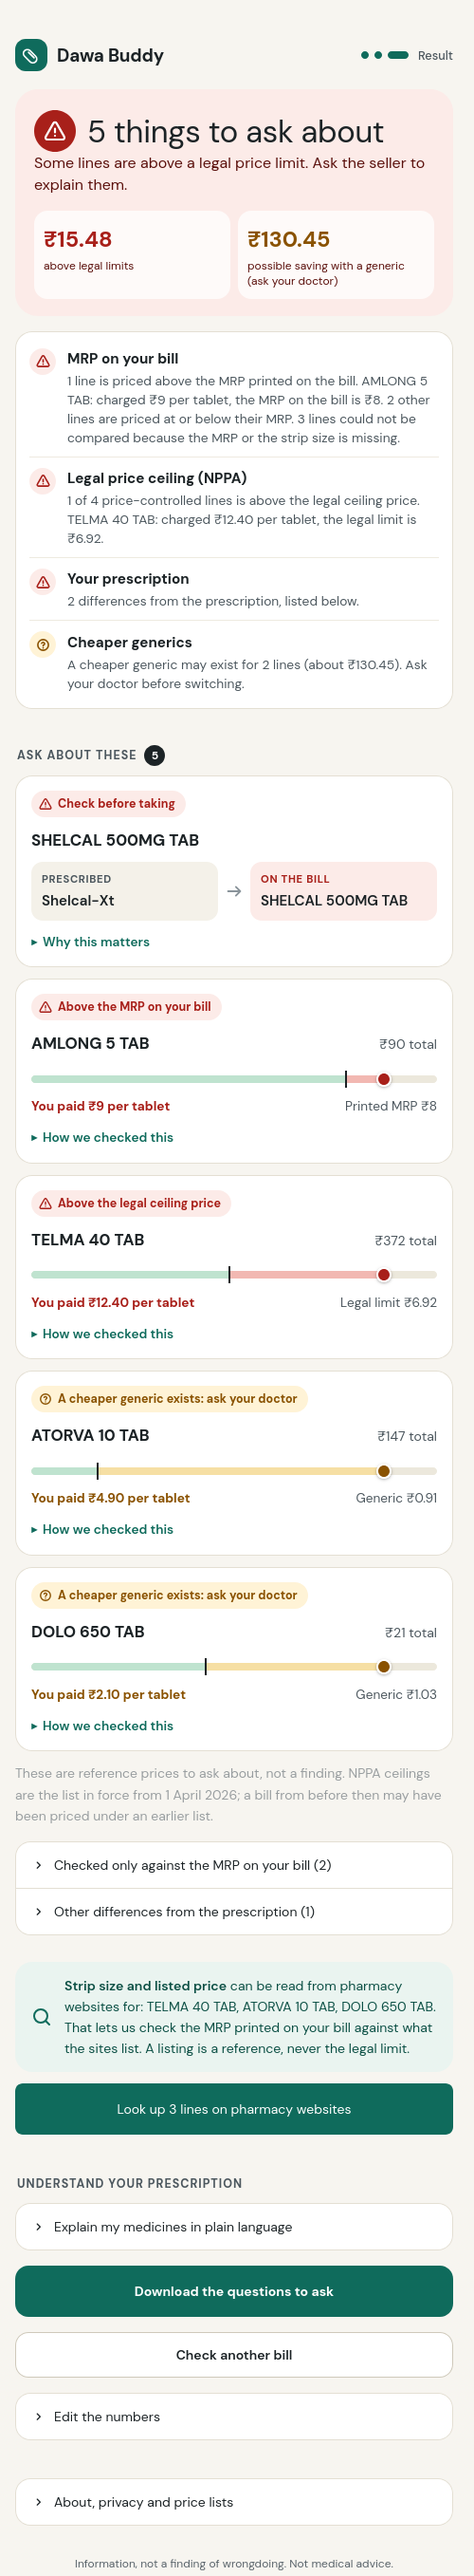
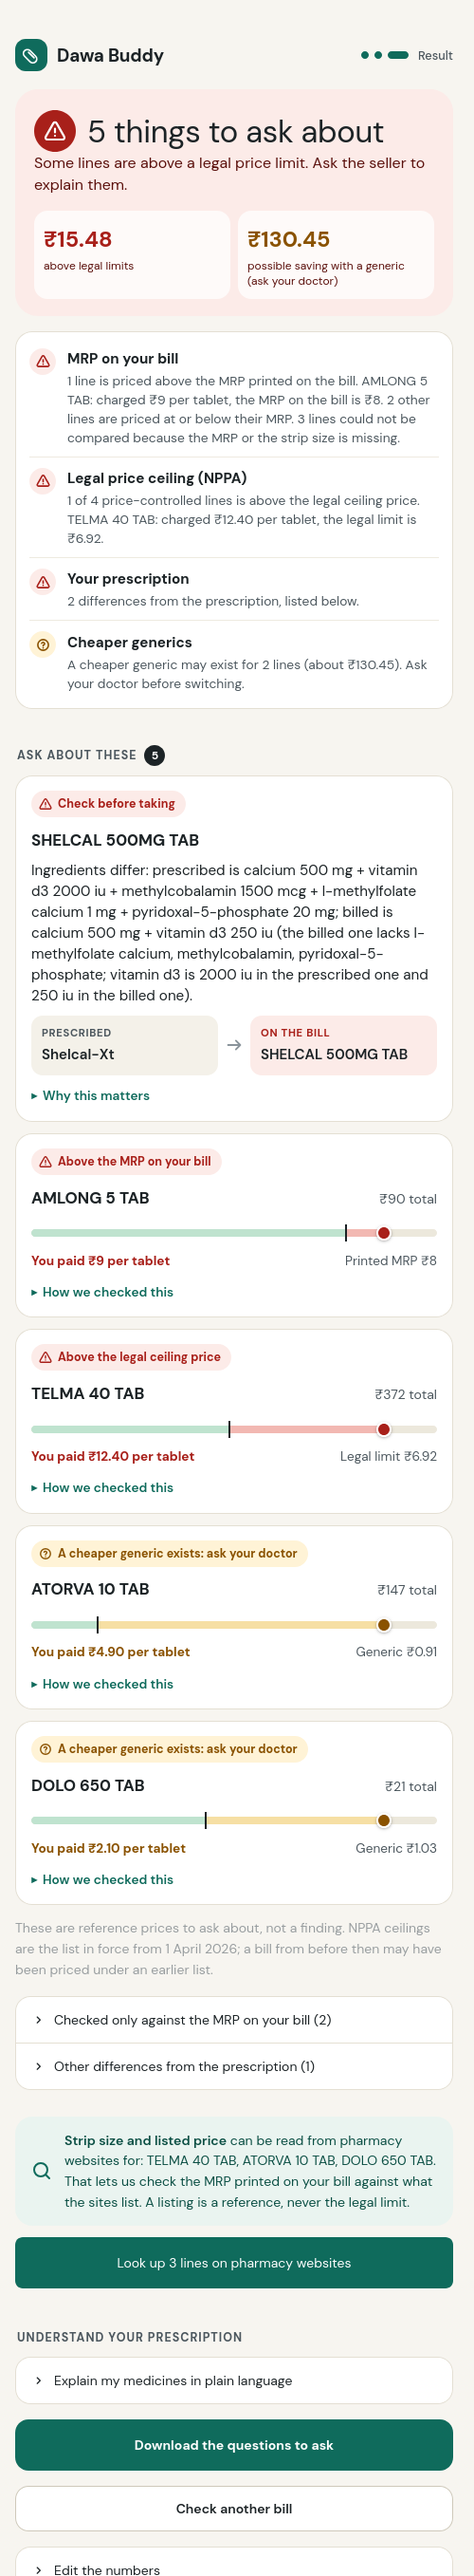
Wrong-variant card states how Shelcal-XT and Shelcal 500 differ (verified compositions, dose pattern no longer read as a strength), visible without a tap

diff --git a/tests/test_bill.py b/tests/test_bill.py
@@ -208,7 +208,9 @@ def test_variant_warning_says_what_actually_differs():
     from dawa_buddy.reconcile import compare_variants
     assert "adds amlodipine" in compare_variants("Concor 5", "CONCOR AM 5 TAB")
     assert "Same ingredients, different strength" in compare_variants("Telma 20", "TELMA 40 TAB")
-    assert "could not look up" in compare_variants("Shelcal-XT", "SHELCAL 500MG TAB")          # not in the brand table: say so, don't guess
+    assert "could not look up" in compare_variants("Zzyzx-XT", "ZZYZX 500MG TAB")              # not in the brand table: say so, don't guess
+    shelcal = compare_variants("Shelcal-XT", "SHELCAL 500MG TAB")                              # two pharmacy pages agree on each (data/brand_overrides.json)
+    assert "Ingredients differ" in shelcal and "billed one lacks methylcobalamin" in shelcal.replace("l-methylfolate calcium, ", "") and "vitamin d3 is 2000 iu in the prescribed one and 250 iu in the billed one" in shelcal
 
 
 def test_variant_flag_carries_the_difference():
@@ -453,3 +455,13 @@ def test_the_questions_ask_the_patient_to_compare_the_bill_mrp_with_the_strip():
     text = report.questions([f])
     assert "## Check the MRP on the strip" in text and "the seller's own figure" in text and "PAN 40MG TAB" in text and "MRP of 11.00" in text
     assert "## Check the MRP on the strip" not in report.questions([b.audit_line(b.BillLine("x", "PAN 40MG TAB", 6, 11.0, 66.0, "tab", None, None))])      # no MRP printed, nothing to compare
+
+
+def test_the_shelcal_prescription_is_compared_with_the_bill_even_with_a_dose_pattern_in_the_line():
+    from dawa_buddy.reader import read_offline
+    from dawa_buddy.reconcile import reconcile
+    lines, _ = b.parse_bill_ex("SHELCAL 500MG TAB | 30 | 9.81 | 294.30")
+    f = [x for x in reconcile(read_offline("TAB SHELCAL-XT 0---1---0 TO CONTINUE"), lines) if x.kind == "different_variant"][0]
+    assert "Shelcal-Xt 0" not in f.note and "cannot say how they differ" not in f.note        # the dose pattern's 0 is not a strength
+    assert "prescribed is calcium 500 mg + vitamin d3 2000 iu" in f.note and "billed is calcium 500 mg + vitamin d3 250 iu" in f.note
+    assert b.audit_line(lines[0]).tier == b.TIER_SUPPLEMENT                                   # knowing its composition does not turn a supplement into a price-listed medicine

diff --git a/dawa_buddy/reconcile.py b/dawa_buddy/reconcile.py
@@ -132,6 +132,10 @@ def compare_variants(prescribed: str, billed: str) -> str:
             parts.append(f"the billed one adds {', '.join(sorted(sb - sa))}")
         if sa - sb:
             parts.append(f"the billed one lacks {', '.join(sorted(sa - sb))}")
+        sta, stb = dict(zip(a.salts.split("+"), a.strengths)), dict(zip(b.salts.split("+"), b.strengths))
+        for salt in sorted(sa & sb):         # an ingredient both have, in a different amount ("vitamin d3 2000 iu against 250 iu")
+            if sta[salt] != stb[salt]:
+                parts.append(f"{salt} is {sta[salt][0]:g} {sta[salt][1]} in the prescribed one and {stb[salt][0]:g} {stb[salt][1]} in the billed one")
         return f"Ingredients differ: prescribed is {_show(a)}; billed is {_show(b)} ({'; '.join(parts)})."
     if sorted(a.strengths) != sorted(b.strengths):
         return f"Same ingredients, different strength: prescribed is {_show(a)}; billed is {_show(b)}."
@@ -146,8 +150,9 @@ def _rx_desc(m: Medication | None, name: str) -> str:
         return name
     if m.strength:
         return f"{name} {m.strength}"
-    hit = re.search(re.escape(name.split()[0]) + r"[\w\-. ]*?\s(\d+(?:\.\d+)?)\b", m.raw or "", re.I)
-    return f"{name} {hit[1]}" if hit and name.split()[-1].lower() in (m.raw or "").lower() else name
+    raw = re.sub(r"\b[01]\s*[-\u2013\u2014]+\s*[01]\s*[-\u2013\u2014]+\s*[01]\b", " ", m.raw or "")        # the dose pattern 0---1---0 is not a strength
+    hit = re.search(re.escape(name.split()[0]) + r"[\w\-. ]*?\s(\d+(?:\.\d+)?)\b", raw, re.I)
+    return f"{name} {hit[1]}" if hit and name.split()[-1].lower() in raw.lower() else name
 
 
 def _pair_variants(flags: list[Flag], rx: Prescription, lines: list[BillLine]) -> list[Flag]:

diff --git a/tests/test_app.py b/tests/test_app.py
@@ -888,3 +888,11 @@ def test_the_strip_size_is_asked_for_only_when_a_conversion_needs_it_and_in_the_
     at.number_input(key="r0_0_fp0").set_value(15)
     [b for b in at.button if b.label == "Save changes"][0].click().run()
     assert "Needed" not in html_blocks(at) and "₹10.90 per tablet" in _captions(at)                   # filled in, and now the conversion is shown
+
+
+def test_the_wrong_variant_card_shows_how_the_two_products_differ_without_a_tap(monkeypatch):
+    at = _bill_app(monkeypatch, [("SHELCAL 500MG TAB", 30, 9.81, 15, 163.45)], rx="TAB SHELCAL-XT 0---1---0 TO CONTINUE")
+    page = html_blocks(at)
+    body = page.split('class="db-body">')[1].split("</div>")[0]                       # the visible sentence of the card, not the folded explanation
+    assert "Ingredients differ" in body and "vitamin d3 is 2000 iu in the prescribed one and 250 iu in the billed one" in body.replace("&#x27;", "'")
+    assert "Check before taking" in page and "Shelcal-Xt 0" not in page

diff --git a/bill_app.py b/bill_app.py
@@ -608,7 +608,8 @@ def results(df, total):
         st.markdown(ui.section_label("Ask about these", n_cards), unsafe_allow_html=True)
     for x in wrong:        # a possibly wrong medicine matters more than any price, so it comes first
         prescribed, billed = x.subject.split(" -> ")
-        st.markdown(ui.card("red", billed, "Check before taking", visual=ui.diff(prescribed, billed), why=x.note), unsafe_allow_html=True)
+        shown = re.search(r"different product\.\s*((?:Ingredients differ|Same ingredients).*?)\s*Ask the pharmacist", x.note)         # how they differ is the point of this card: not behind a tap
+        st.markdown(ui.card("red", billed, "Check before taking", body=shown.group(1) if shown else "", visual=ui.diff(prescribed, billed), why=x.note), unsafe_allow_html=True)
     for f in attention:
         st.markdown(finding_html(f), unsafe_allow_html=True)
     peers = peer_cards(peer_found)

diff --git a/README.md b/README.md
@@ -5,7 +5,7 @@
 **Photograph a pharmacy or hospital bill. Dawa Buddy checks it line by line against India's legal price lists and the doctor's prescription, then tells you exactly what to ask, in English, Hindi or Kannada.**
 
 ![licence: MIT](https://img.shields.io/badge/licence-MIT-green)
-![tests: 283 passing](https://img.shields.io/badge/tests-283%20passing-brightgreen)
+![tests: 285 passing](https://img.shields.io/badge/tests-285%20passing-brightgreen)
 ![Nebius Token Factory](https://img.shields.io/badge/runs%20on-Nebius%20Token%20Factory-1f6feb)
 ![NVIDIA Nemotron](https://img.shields.io/badge/models-NVIDIA%20Nemotron-76b900)
 ![Tavily](https://img.shields.io/badge/web%20evidence-Tavily-7b61ff)
@@ -30,7 +30,7 @@
 ### What a judge should know in one minute
 | Criterion | Short answer | Where to look |
 |---|---|---|
-| **Technological implementation** | Nemotron **Super VL** reads photos, **Lightning** reads prescriptions, **Ultra / Super** write Hindi, all through one Token Factory endpoint. A deterministic rules engine decides every price verdict, so the model can never invent an accusation. 283 tests; 4 evaluation suites. | [§7](#7-architecture), [§8](#8-how-we-use-nebius-nvidia-nemotron-and-tavily), [§10](#10-validation-and-evaluation) |
+| **Technological implementation** | Nemotron **Super VL** reads photos, **Lightning** reads prescriptions, **Ultra / Super** write Hindi, all through one Token Factory endpoint. A deterministic rules engine decides every price verdict, so the model can never invent an accusation. 285 tests; 4 evaluation suites. | [§7](#7-architecture), [§8](#8-how-we-use-nebius-nvidia-nemotron-and-tavily), [§10](#10-validation-and-evaluation) |
 | **Design** | One question per screen, verdict first, a "What we checked" list so a clean bill reads as protection, phone-first, status always colour + icon + words, Hindi and Kannada typography. | [§5](#5-the-product-tour) |
 | **Potential impact** | The Indian government's own court affidavit says patients have "very low bargaining position" and "very limited" knowledge of prices. This tool puts the comparison in the patient's hands at the moment of paying. | [§2](#2-the-problem-with-evidence), [§4](#4-the-idea) |
 | **Quality of the idea** | A *receipt audit*, not a price lookup: it resolves each line to a medicine, strength and form, converts per-tablet, per-strip, per-vial, per-ml and per-piece prices correctly, and reconciles the bill with the prescription (including the wrong *variant* handed over). It is honest about what it cannot see. | [§4](#4-the-idea), [§9](#9-engineering-decisions-and-why) |
@@ -54,7 +54,7 @@ I started with one real prescription and its pharmacy bill, from my own family, 
 
 It was not simple. The prescription said **Shelcal-XT**; the counter had handed over **Shelcal 500**, a different product, and nothing on the bill said so. The bill printed the MRP *per strip* beside a *per-tablet* price, so comparing them needed a tablets-per-strip number that only the strip itself had. A hospital bill listed a saline bag at a price that looked wrong, until I found that NPPA publishes a **second, higher legal ceiling** for "special features" packs, in a separate gazette notification, and that the bag matched it to the paisa. Every one of these checks was possible. Each needed gazette PDFs, a spreadsheet and patience that a family does not have at a hospital discharge counter.
 
-Then the court record caught up with the experience. In October 2026 a Supreme Court bench began asking why a drip line with an MRP of ₹11 was being sold for ₹283, and the Union government told the Court, in an affidavit, that patients have a "very low bargaining position" and "very limited" knowledge of drugs, substitutes and prices. That sentence is the whole problem statement. Dawa Buddy is my attempt to reduce that asymmetry for one patient, with one photo, in under a minute: do the arithmetic and the lookups, say what could not be checked, and phrase every finding as a question to ask, never an accusation.
+Then the court record caught up with the experience. In October 2026 a Supreme Court bench began asking why a drip line with an MRP of ₹11 was being sold for ₹285, and the Union government told the Court, in an affidavit, that patients have a "very low bargaining position" and "very limited" knowledge of drugs, substitutes and prices. That sentence is the whole problem statement. Dawa Buddy is my attempt to reduce that asymmetry for one patient, with one photo, in under a minute: do the arithmetic and the lookups, say what could not be checked, and phrase every finding as a question to ask, never an accusation.
 
 ## 2. The problem, with evidence
 Sources are numbered and listed in [section 19](#19-sources). Dates are as reported.
@@ -63,7 +63,7 @@ Sources are numbered and listed in [section 19](#19-sources). Dates are as repor
 Two bodies of litigation and the government's own filings describe the same pattern.
 
 - **27 October 2026 (yesterday).** A bench of Justices Vikram Nath and Sandeep Mehta heard petitions by advocate Kishan Chand Jain and paediatric surgeon Sanjay Kulshrestha seeking stricter enforcement of the Drugs (Prices Control) Order, 2013. The bench asked how a hospital could charge **₹1.3 lakh for a cancer injection a distributor could procure for ₹11,000** and asked the Centre to justify it [3]. It noted that around **90% of medicines are outside the DPCO's price controls** [3]. Hospitals' counsel argued that capping margins would make hospital operations unviable and push costs onto other charges; the Centre argued for a "calibrated approach" and said complete control is not the answer [2]. **The order is reserved; written submissions are due in two weeks** [2]. The outcome is pending as this README is written.
-- **12 October 2026.** The Centre told the Court it would cap trade margins at 30% on non-scheduled cancer drugs. The bench called that "just the tip of the iceberg" and asked about other products. Justice Mehta cited an **India-made cardiac stent costing about ₹5,000 sold by hospitals for more than ₹25,000**, and **"a saline drip line carrying an MRP of ₹11 being sold for ₹283"** [4]. The Centre's affidavit estimated the cancer-drug cap would cut MRPs by 20% to 70%, saving about ₹2,500 crore a year [4].
+- **12 October 2026.** The Centre told the Court it would cap trade margins at 30% on non-scheduled cancer drugs. The bench called that "just the tip of the iceberg" and asked about other products. Justice Mehta cited an **India-made cardiac stent costing about ₹5,000 sold by hospitals for more than ₹25,000**, and **"a saline drip line carrying an MRP of ₹11 being sold for ₹285"** [4]. The Centre's affidavit estimated the cancer-drug cap would cut MRPs by 20% to 70%, saving about ₹2,500 crore a year [4].
 - **The government's affidavit** (reported 23 October 2026) calls hospitals charging high MRPs for medicines and consumables a **"malpractice"**. It says patients have a "very low bargaining position vis-a-vis the hospital, and the patient's knowledge of drugs, their substitutes and their prices is also very limited". It describes margins of **170% to 700% or more on anti-cancer drugs** and **100% to 1000% or more on consumables**, and notes that for patients paying directly, hospital supplies are **"billed separately at MRP"** [5].
 - **4 March 2025, *Siddharth Dalmia v. Union of India*.** A PIL alleged that private hospitals push patients to buy medicines, implants and devices from in-house pharmacies at higher prices. Its example: an injection sold at an MRP of ₹61,132 while the same company's product was available in the open market at ₹50,000, with one free injection for every four bought that the hospital did not pass on. The bench (Justices Surya Kant and N Kotiswar Singh) left the policy to state governments [6].
 
@@ -140,7 +140,7 @@ Dawa Buddy cannot fix a pricing policy. It can give a patient the numbers the po
 
 | Pattern reported in the Court | What the patient can see | What Dawa Buddy does today | Where it stops |
 |---|---|---|---|
-| **Consumable billed far above its printed MRP** (drip line, MRP ₹11, sold at ₹283) | The MRP on the pack and the billed rate | **Per-piece MRP check.** Flags "Above the MRP on your bill" with the price meter. The *Hospital pharmacy bill* sample reproduces it (IV set, MRP ₹11, billed ₹265). | Needs the MRP read off the pack. It cannot know an MRP it was not given. |
+| **Consumable billed far above its printed MRP** (drip line, MRP ₹11, sold at ₹285) | The MRP on the pack and the billed rate | **Per-piece MRP check.** Flags "Above the MRP on your bill" with the price meter. The *Hospital pharmacy bill* sample reproduces it (IV set, MRP ₹11, billed ₹265). | Needs the MRP read off the pack. It cannot know an MRP it was not given. |
 | **A scheduled drug or injection above its legal ceiling** | Bill rate, strength, form | Converts to per tablet, per vial or per ml and compares with the **NPPA ceiling (911 formulations loaded)** plus a GST allowance. The sample shows two injections above ceiling. | Scheduled medicines only; ceilings as of 1 April 2026. |
 | **Non-scheduled branded drug where the MRP is many times the trade price** (₹2,700 bought, MRP ₹27,000) | Only the MRP | Checks the bill against the printed MRP; compares with the **Jan Aushadhi generic price** where a generic exists (a gap of 3x or more becomes a question *for the doctor*); shows pharmacy-site listings as a reference. | **It cannot see the price to retailer.** The heart of the Court's concern is invisible to the patient, and with no ceiling there is nothing to call illegal. It says so. |
 | **A hospital charging a drug at many times what a distributor pays** (₹11,000 vs ₹1.3 lakh) | MRP and billed rate | Flags only if the bill exceeds the printed MRP; otherwise reports "within the printed MRP" and any generic benchmark. | Same limit: a mark-up *within* MRP is a policy question, not something a bill can prove. |
@@ -314,7 +314,7 @@ All numbers below are reproducible with the commands in [section 13](#13-setup-r
 ### 10.1 Results
 | Check | Result | Caveat |
 |---|---|---|
-| Unit and integration tests | **283 pass** | Includes fake-server tests for the Ollama and Tavily paths and a test that inspects what is sent to Tavily. |
+| Unit and integration tests | **285 pass** | Includes fake-server tests for the Ollama and Tavily paths and a test that inspects what is sent to Tavily. |
 | Brand resolution, 108 real brand lines | **99 correct, 4 missed (safe), 0 wrong.** The curated map alone: 26 correct, 61 missed, 2 wrong (1 reached a price verdict). 14 of 14 supplements, invented and ambiguous names handled safely. | Expected answers were written from pharmaceutical knowledge, **not** copied from the table. A pharmacist should review them. |
 | Bill tier accuracy, 18 synthetic lines (tablets, liquids, injections) | **18 of 18** | Synthetic prices written by the author. |
 | Prescription extraction, 24 synthetic cases | Offline rules F1 **1.00**, live Nemotron F1 **1.00**; safety-flag F1 1.00 / 1.00; 0 invented medicines; median latency 1.33 s | **Saturated**: the rules were tuned on this style of text, so it does not show the model's value. The real-photo comparison does. |
@@ -331,7 +331,7 @@ All numbers below are reproducible with the commands in [section 13](#13-setup-r
 
 ### 10.2 Reproduce
 ```bash
-pytest -q tests                                   # 283 tests
+pytest -q tests                                   # 285 tests
 python -m evals.run_bill_evals                    # 18 synthetic bill lines, tier accuracy
 python -m evals.run_brand_evals [--verbose]       # 108 brand lines: correct / missed / wrong
 python -m evals.run_evals --out evals/results.md  # 24 synthetic prescriptions, live model
@@ -373,8 +373,9 @@ Synthetic tests passed long before real documents did. These are the failures re
 | The same two bills showed that fixing one layout at a time does not scale: a new column order would break the reader again. | The reader now returns every number in each row; code (not the model) finds the quantity, price and line value that multiply out, makes the lines add up to the printed total, prefers the tax-inclusive value, works a missing price out as value over quantity, and tells a per-tablet MRP from a per-strip one by size. A model-free test suite pins each rule. **`scripts/synth_bills.py`** draws ten invented bills in different layouts (per-tablet and per-strip MRP, split tax, stacked cells, a discount column, scrambled headers, no rate column, a tilted blurred photo): **49 of 49 rows read right**. That is a stress test of layouts that I tuned against, not an accuracy figure for real bills. | Invalid JSON from the model (a batch code listed among the numbers) is repaired and retried once, so it cannot end a patient's session. |
 | A printed MRP is the seller's own figure. "Charged within the MRP on the bill" only proves the bill agrees with itself: a seller who prints an inflated MRP and charges it would pass, and the result called that MRP "printed on the pack". | The wording now says **the MRP on your bill** everywhere and what that does and does not prove. Lines whose only comparison is the bill's own MRP sit in their own group ("Checked only against the MRP on your bill"), not in "Within the limits". The downloaded questions add **"Check the MRP on the strip"**. After a photo is read, the result looks the lines up once on pharmacy websites by itself (Tavily; never for the samples, never for a locked visitor), because the listings are the only independent check on an MRP: on the second real bill, listings were found for **4 of 4 lines**, and the row says "pharmacy websites list a consistent MRP for 4 lines". | The check is only as good as the listings: a stale low listing cannot raise an alarm (the highest listed MRP is the reference), and an MRP can differ by batch, so it is always a question, never a finding. |
 | On the review and result screens, choosing *per tablet* or *per strip* changed nothing, the strip-size box sat beside that choice although it is a different question, and a per-tablet MRP stayed per tablet whichever was chosen. Cause: a per-tablet MRP had been stored by pretending a strip held one tablet, so the box held an invented 1 and the toggle had nothing real to convert. | The basis of the printed MRP is now its own fact (`mrp_each`: one tablet or a whole strip, with its own control), the strip size is only asked for when a conversion needs it and sits in the *Fix a number* form, and every card shows a live sentence that recomputes with the choices ("You paid ₹372 per strip (₹12.40 per tablet). MRP on the bill ₹80 for a whole strip (₹8 per tablet)"). A per-tablet MRP on a per-tablet price asks for no strip size at all. | No strip size is ever invented; two tests drive the toggles and the fix form. |
+| The wrong-variant card said "Same brand name, different product" but, for the real Shelcal case, only "we could not look up the ingredients, so we cannot say how they differ": neither Shelcal-XT nor Shelcal 500 was in the brand table (a supplement). A stray "0" from the dose pattern `0---1---0` was also being read as a strength ("Shelcal-Xt 0"). | Both products were added to `data/brand_overrides.json` with their sources (each composition confirmed on two or more pharmacy pages), the dose pattern is no longer read as a strength, and the comparison also names an ingredient present in both in a different amount. The card now reads: "prescribed is calcium 500 mg + vitamin d3 2000 iu + methylcobalamin 1500 mcg + l-methylfolate calcium 1 mg + pyridoxal-5-phosphate 20 mg; billed is calcium 500 mg + vitamin d3 250 iu (the billed one lacks …; vitamin d3 is 2000 iu in the prescribed one and 250 iu in the billed one)". Four-version check: the old code never explained it either. | Only brands with a verified source are added; any other pair still says plainly that it cannot say how they differ. |
 | On the second real bill, two lines had a Jan Aushadhi generic at under half their price (Dolo 650 at 2.2×, Monocef O at 2.8×) and read "within the limits", while two others (8× and 9×) were flagged. The 3× flag looked inconsistent, and the author judged it too relaxed. | The flag is now **2×** (`GENERIC_GAP_RATIO`), which flags Dolo 650 and Monocef O. A generic 1.5× to under 2× cheaper is no longer silent: the checklist says "None flagged (we flag a generic at 2× the price or more)" and names those lines, and each line's fold shows the generic's price and the multiple paid. The outpatient sample now has 5 things to ask about (Dolo 650 added); the hospital sample is unchanged. One of the 18 hand-written tier cases moved (a ₹29.50 ceftriaxone vial is 2.2× its generic, so it is now a generic question), and its truth was updated for the new rule, with a ₹26 case added to keep the old boundary pinned. | A lower threshold flags more lines. Jan Aushadhi generics are cheap by design, so most branded medicines sit above 2×; the flag is always a question for the doctor, never an accusation. |
-| The Supreme Court's headline example (a ₹11 consumable billed at ₹283) was caught only if the user chose a unit; consumables had no "per piece" option. | Added **per piece** with a direct MRP comparison, plus a test and the hospital sample line. Found by reading the court coverage against the app, on 28 October. |
+| The Supreme Court's headline example (a ₹11 consumable billed at ₹285) was caught only if the user chose a unit; consumables had no "per piece" option. | Added **per piece** with a direct MRP comparison, plus a test and the hospital sample line. Found by reading the court coverage against the app, on 28 October. |
 
 ## 11. How it meets the requirements
 | Req | How it is met | Evidence |
@@ -550,11 +551,11 @@ Accessed 28 October 2026 unless noted. Figures in the news reports are as report
 2. The Hindu, "SC says 'economic policy' cannot take precedence over lives as Centre backs 'calibrated' drug-price controls", 27 Oct 2026. https://www.thehindu.com/news/national/sc-says-economic-policy-cannot-take-precedence-over-lives-as-centre-backs-calibrated-drug-price-controls/article71631892.ece
 3. ThePrint, "'Not through this dacoity': SC questions Rs 1.3 lakh hospital charge for Rs 11,000 cancer injection", 27 Oct 2026. https://theprint.in/health/not-through-this-dacoity-sc-questions-rs-1-3-lakh-hospital-charge-for-rs-11000-cancer-vaccine/3083192/
 4. The Hindu, "Supreme Court wants cap on trade margin for all essential medicines and medical products", 12 Oct 2026 (updated 17 Oct). https://www.thehindu.com/sci-tech/health/supreme-court-wants-cap-on-trade-margin-for-all-essential-medicines-and-medical-products/article71575807.ece
-5. Times of India, "Hospitals 'overcharging' is a malpractice: Govt to Supreme Court", 23 Oct 2026. https://timesofindia.indiatimes.com/india/hospitals-overcharging-is-a-malpractice-govt-to-supreme-court/articleshow/135128360.cms
+5. Times of India, "Hospitals 'overcharging' is a malpractice: Govt to Supreme Court", 23 Oct 2026. https://timesofindia.indiatimes.com/india/hospitals-overcharging-is-a-malpractice-govt-to-supreme-court/articleshow/135128560.cms
 6. PTI via ET Pharma, "Policy decisions by states needed to protect patients from being fleeced by pharmacies at private hospitals: SC", 5 Mar 2025. https://pharma.economictimes.indiatimes.com/news/policy-and-regulations/policy-decisions-by-states-needed-to-protect-patients-from-being-fleeced-by-pharmacies-at-private-hospitals-sc/118721289
 7. The Hindu (Data Point), "₹8,447 crore in medicine overcharging claims remain outstanding as SC seeks wider price controls", 22 Oct 2026, citing NPPA and NSS Report no. 596 (Household Social Consumption: Health, 2025). https://www.thehindu.com/data/8447-crore-in-medicine-overcharging-claims-remain-outstanding-as-sc-seeks-wider-price-controls/article71607884.ece
 8. National Health Systems Resource Centre, National Health Accounts Estimates for India 2022-23. https://nhsrcindia.org/sites/default/files/2026-05/NHA%202022-23%20Report.pdf
-9. PIB, "NPPA Integrates Pharma Jan Samadhan Portal with Pharma Sahi Daam Portal", 25 Jun 2026. https://www.pib.gov.in/PressReleasePage.aspx?PRID=2283731&reg=48&lang=1
+9. PIB, "NPPA Integrates Pharma Jan Samadhan Portal with Pharma Sahi Daam Portal", 25 Jun 2026. https://www.pib.gov.in/PressReleasePage.aspx?PRID=2285731&reg=48&lang=1
 10. NPPA, Pharma Sahi Daam. https://nppa.gov.in/pharma_sahi_daam
 11. Consumer Awareness Group, "Maximum Retail Price (MRP) and Over-Charging". https://www.cag.org.in/blogs/maximum-retail-price-mrp-and-over-charging
 12. Legal 500, "NPPA Revises The Ceiling Price Of Coronary Stent" (the February 2017 cap, up to 85%). https://www.legal500.com/intelligence/india/food-drugs-healthcare-life-sciences/nppa-revises-the-ceiling-price-of-coronary-stent
@@ -583,6 +584,6 @@ dawa_buddy/
 data/                       Price lists, brand table, overrides, NOTICE.md
 scripts/                    audit_bill, read_photos, check_nebius, NPPA PDF parsers, brand-table builder, review-pack builder (markdown), review-sheet builder (xlsx for reviewers: one row per phrase, a verdict dropdown)
 evals/                      Gold sets and runners
-tests/                      283 tests
+tests/                      285 tests
 my_data/                    Your private bills and prescriptions (git-ignored)
 ```
